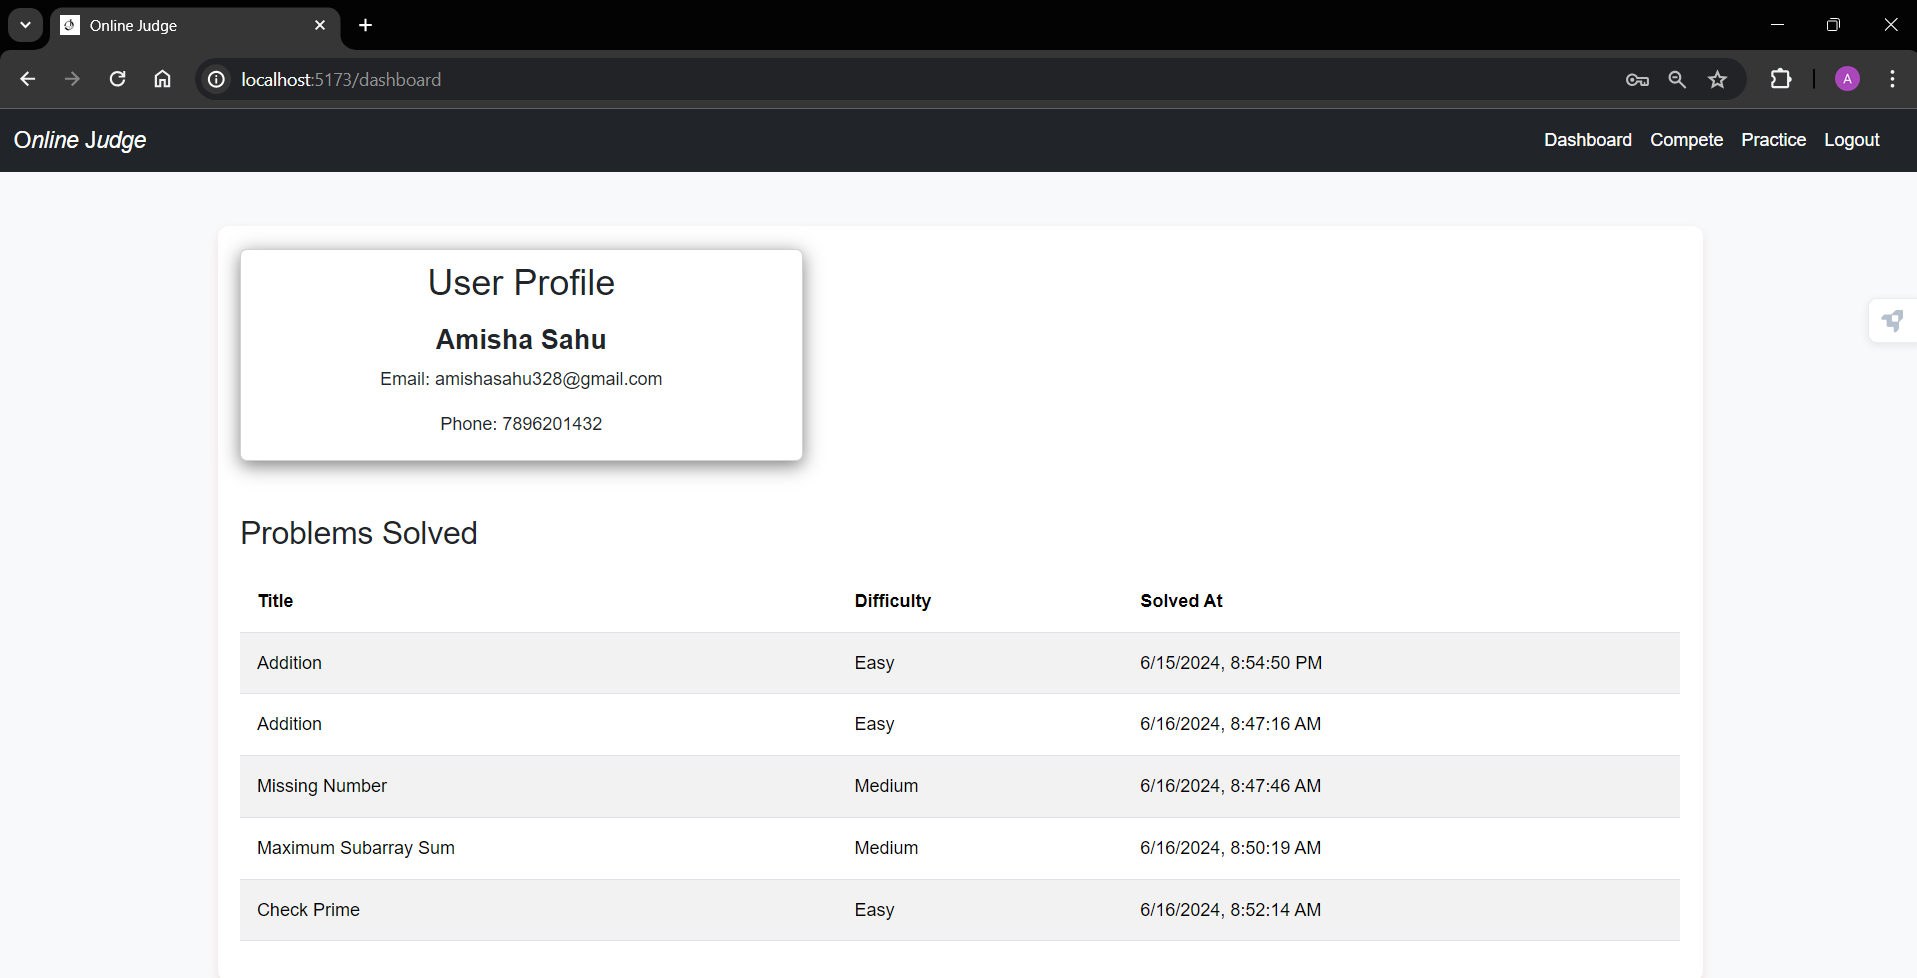
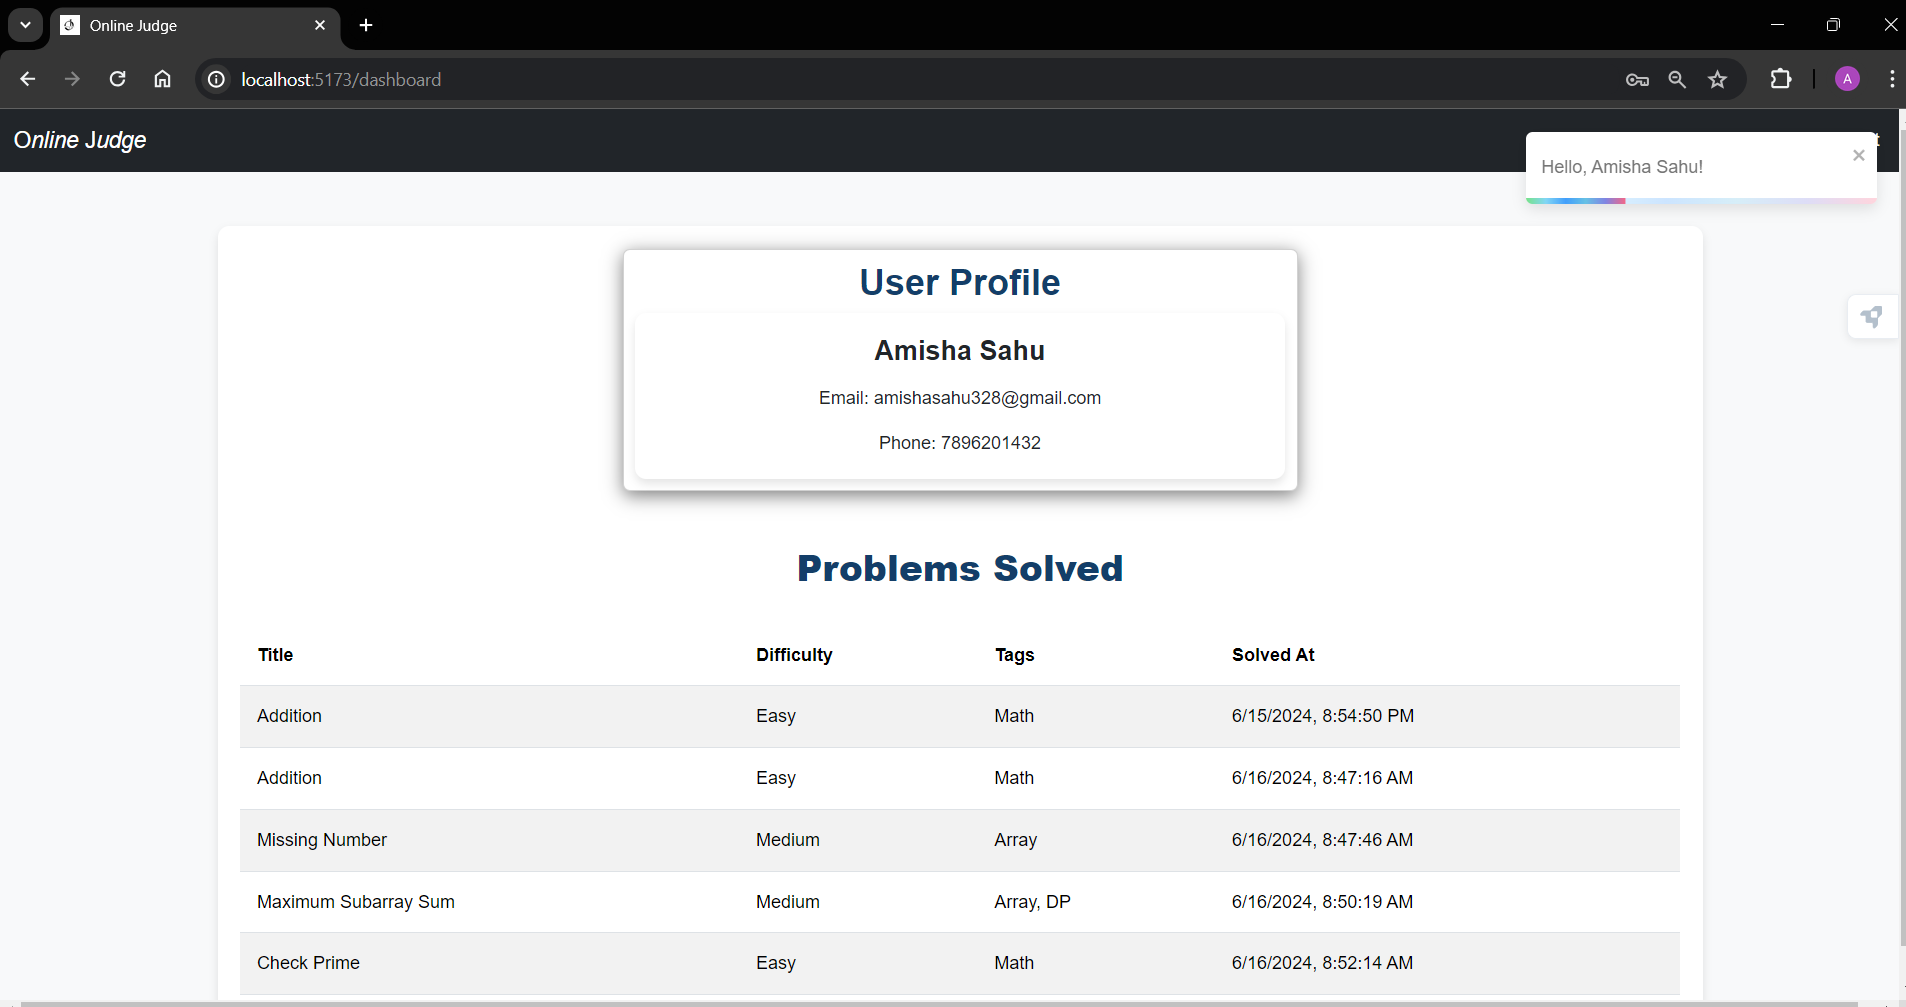
Modified User Dashbaord UI

diff --git a/frontend/src/components/Users Dashboard/Dashboard.css b/frontend/src/components/Users Dashboard/Dashboard.css
@@ -1,39 +1,47 @@
 
-        .profile-card {
-          display: flex;
-          flex-direction: column;
-          align-items: center;
-          padding: 10px;
-        }
-        
-        .main-profile {
-          display: flex;
-          flex-direction: column;
-          align-items: center;
-          padding: 10px;
-        }
+    .profile-card {
+      display: flex;
+      flex-direction: column;
+      align-items: center;
+      padding: 20px;
+      border-radius: 10px;
+      box-shadow: 0 4px 8px rgba(0, 0, 0, 0.1);
+    }
 
-        .card-title {
-          font-size: 1.5rem;
-          font-weight: bold;
-        }
-        
-        .table {
-          width: 100%;
-          margin-top: 20px;
-        }
-        
-        .table th, .table td {
-          padding: 15px;
-          text-align: left;
-        }
-        
-        .table thead {
-          background-color: #6d97c1;
-          color: #ffffff;
-        }
-        
-        .table-striped tbody tr:nth-of-type(odd) {
-          background-color: #f9f9f9;
-        }
+    .main-profile {
+      width: 100%;
+      max-width: 600px;
+      margin: auto;
+      padding: 10px;
+    }
+
+    .card-title {
+      font-size: 1.5rem;
+      font-weight: bold;
+      margin-bottom: 15px;
+    }
+
+    .text-center{
+      display: flex;
+      align-items: center;
+      justify-content: center;
+    }
+    
+  
+    .table th, .table td {
+      padding: 15px;
+      text-align: left;
+    }
+    
+    
+    /* Additional styling */
+    h2 {
+      font-weight: bold;
+      color: #133e69;
+    }
+    
+    h3 {
+      font-weight: bold;
+      color: #343a40;
+    }
         

diff --git a/frontend/src/components/Users Dashboard/Dashboard.jsx b/frontend/src/components/Users Dashboard/Dashboard.jsx
@@ -71,7 +71,7 @@ export default function Dashboard() {
       {/* <div className="home_page">
         <h4>Welcome <span>{name}</span></h4>
       </div> */}
-      <div className="container mt-5">
+      <div className="container mt-5 d-flex flex-column align-items-center">
         {user ? (
            <div className="card main-profile mb-5">
            <h2 className="text-center">User Profile</h2>
@@ -84,15 +84,16 @@ export default function Dashboard() {
         ) : (
           <div>Loading...</div>
         )}
-        <h3>Problems Solved</h3>
+        <h2 className="text-center mb-3"><b>Problems Solved</b></h2>
         {problemsSolved.length === 0 ? (
           <div>No problems solved yet.</div>
         ) : (
-          <table className="table table-striped mt-3">
+          <table className="table table-striped thead-wrapper mt-3">
             <thead className="thead-dark">
               <tr>
                 <th scope="col">Title</th>
                 <th scope="col">Difficulty</th>
+                <th scope="col">Tags</th>
                 <th scope="col">Solved At</th>
               </tr>
             </thead>
@@ -101,6 +102,7 @@ export default function Dashboard() {
                 <tr key={index}>
                   <td>{problem.problemDetails.title}</td>
                   <td>{problem.problemDetails.difficulty}</td>
+                  <td>{problem.problemDetails.tags}</td>
                   <td>{new Date(problem.submissionTime).toLocaleString()}</td>
                 </tr>
               ))}
